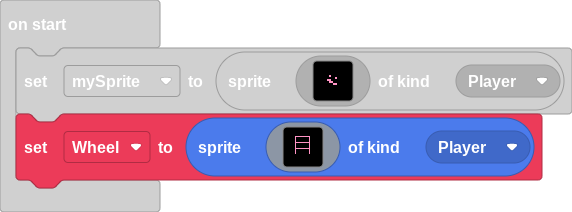
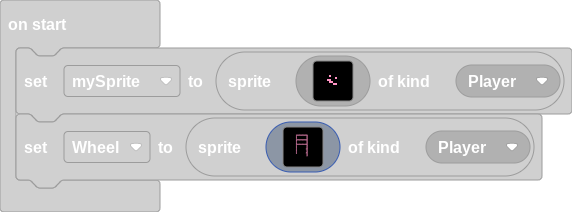
Update main.blocks, main.ts

Changed region(s): [[0.0, 0.5094, 0.951, 0.9057]]

diff --git a/main.ts b/main.ts
@@ -40,6 +40,16 @@ let Wheel = sprites.create(img`
     ........3.............3.........
     ........3.............3.........
     ........3.............3.........
+    ........3............33.........
+    ........3.............3.........
+    ........3.............3.........
+    ........3.............3.........
+    ........3.............3.........
+    ........3............33.........
+    ........3.............3.........
+    ......................3.........
+    ......................3.........
+    ......................3.........
     ................................
     ................................
     ................................
